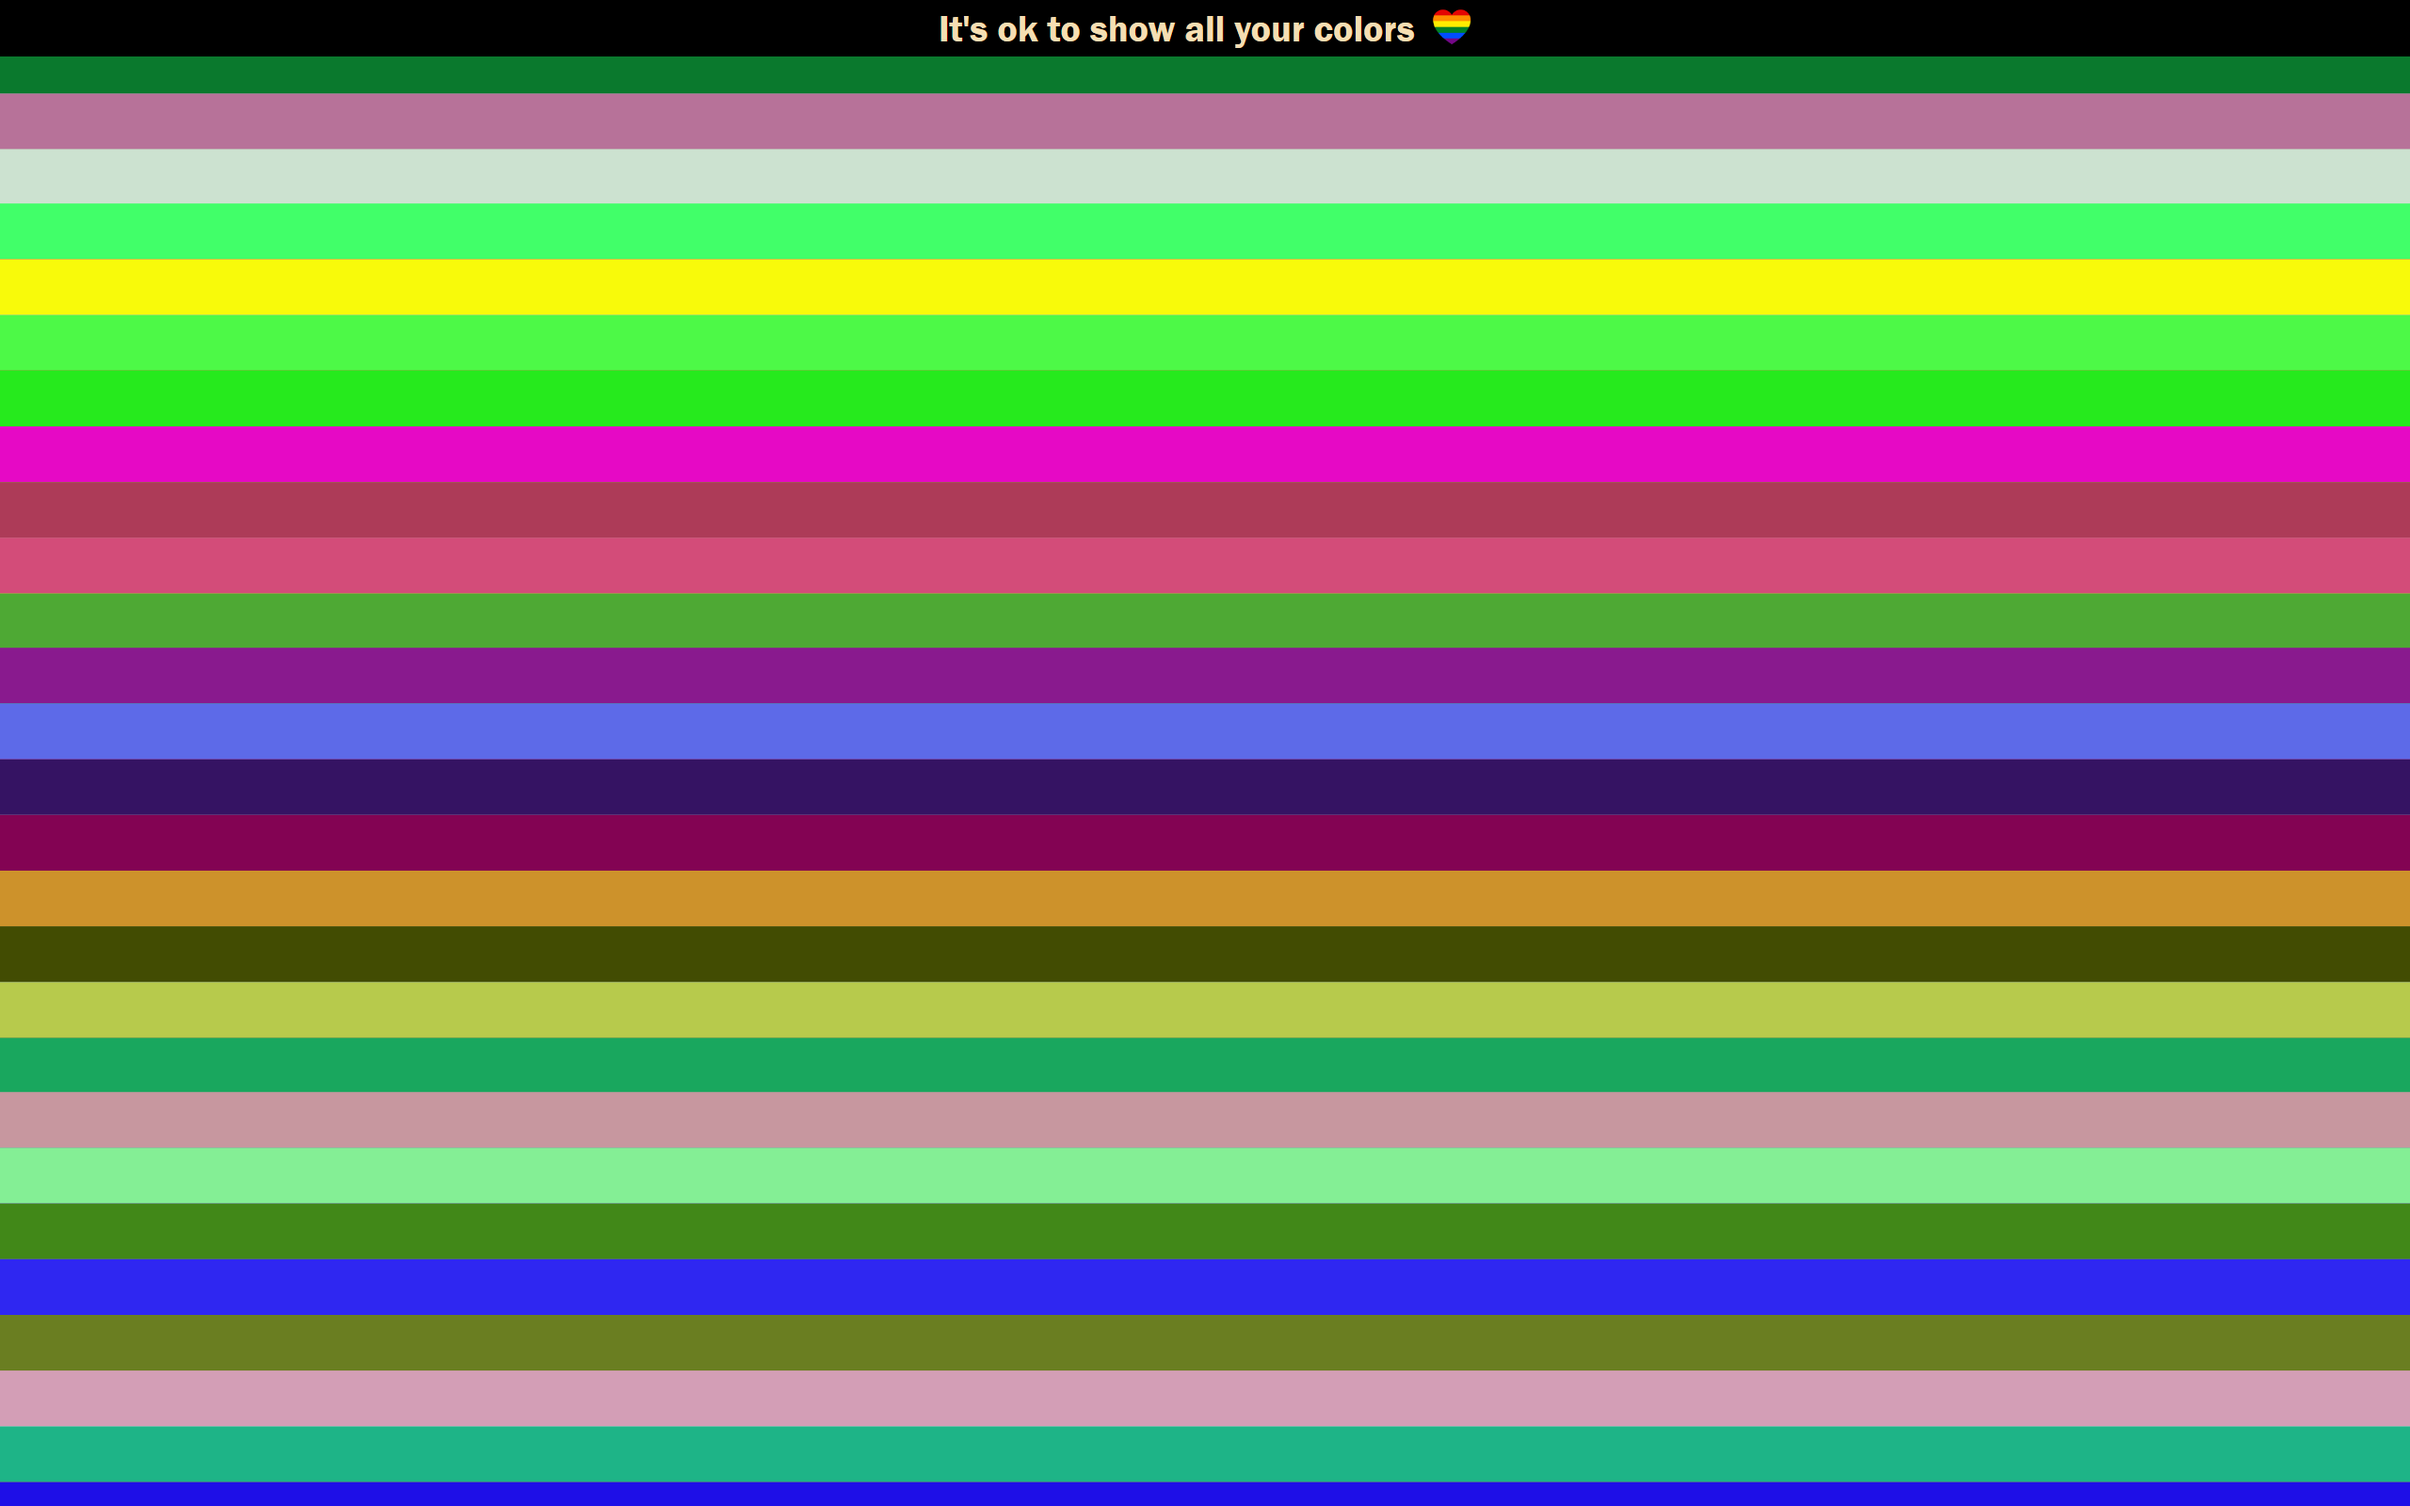
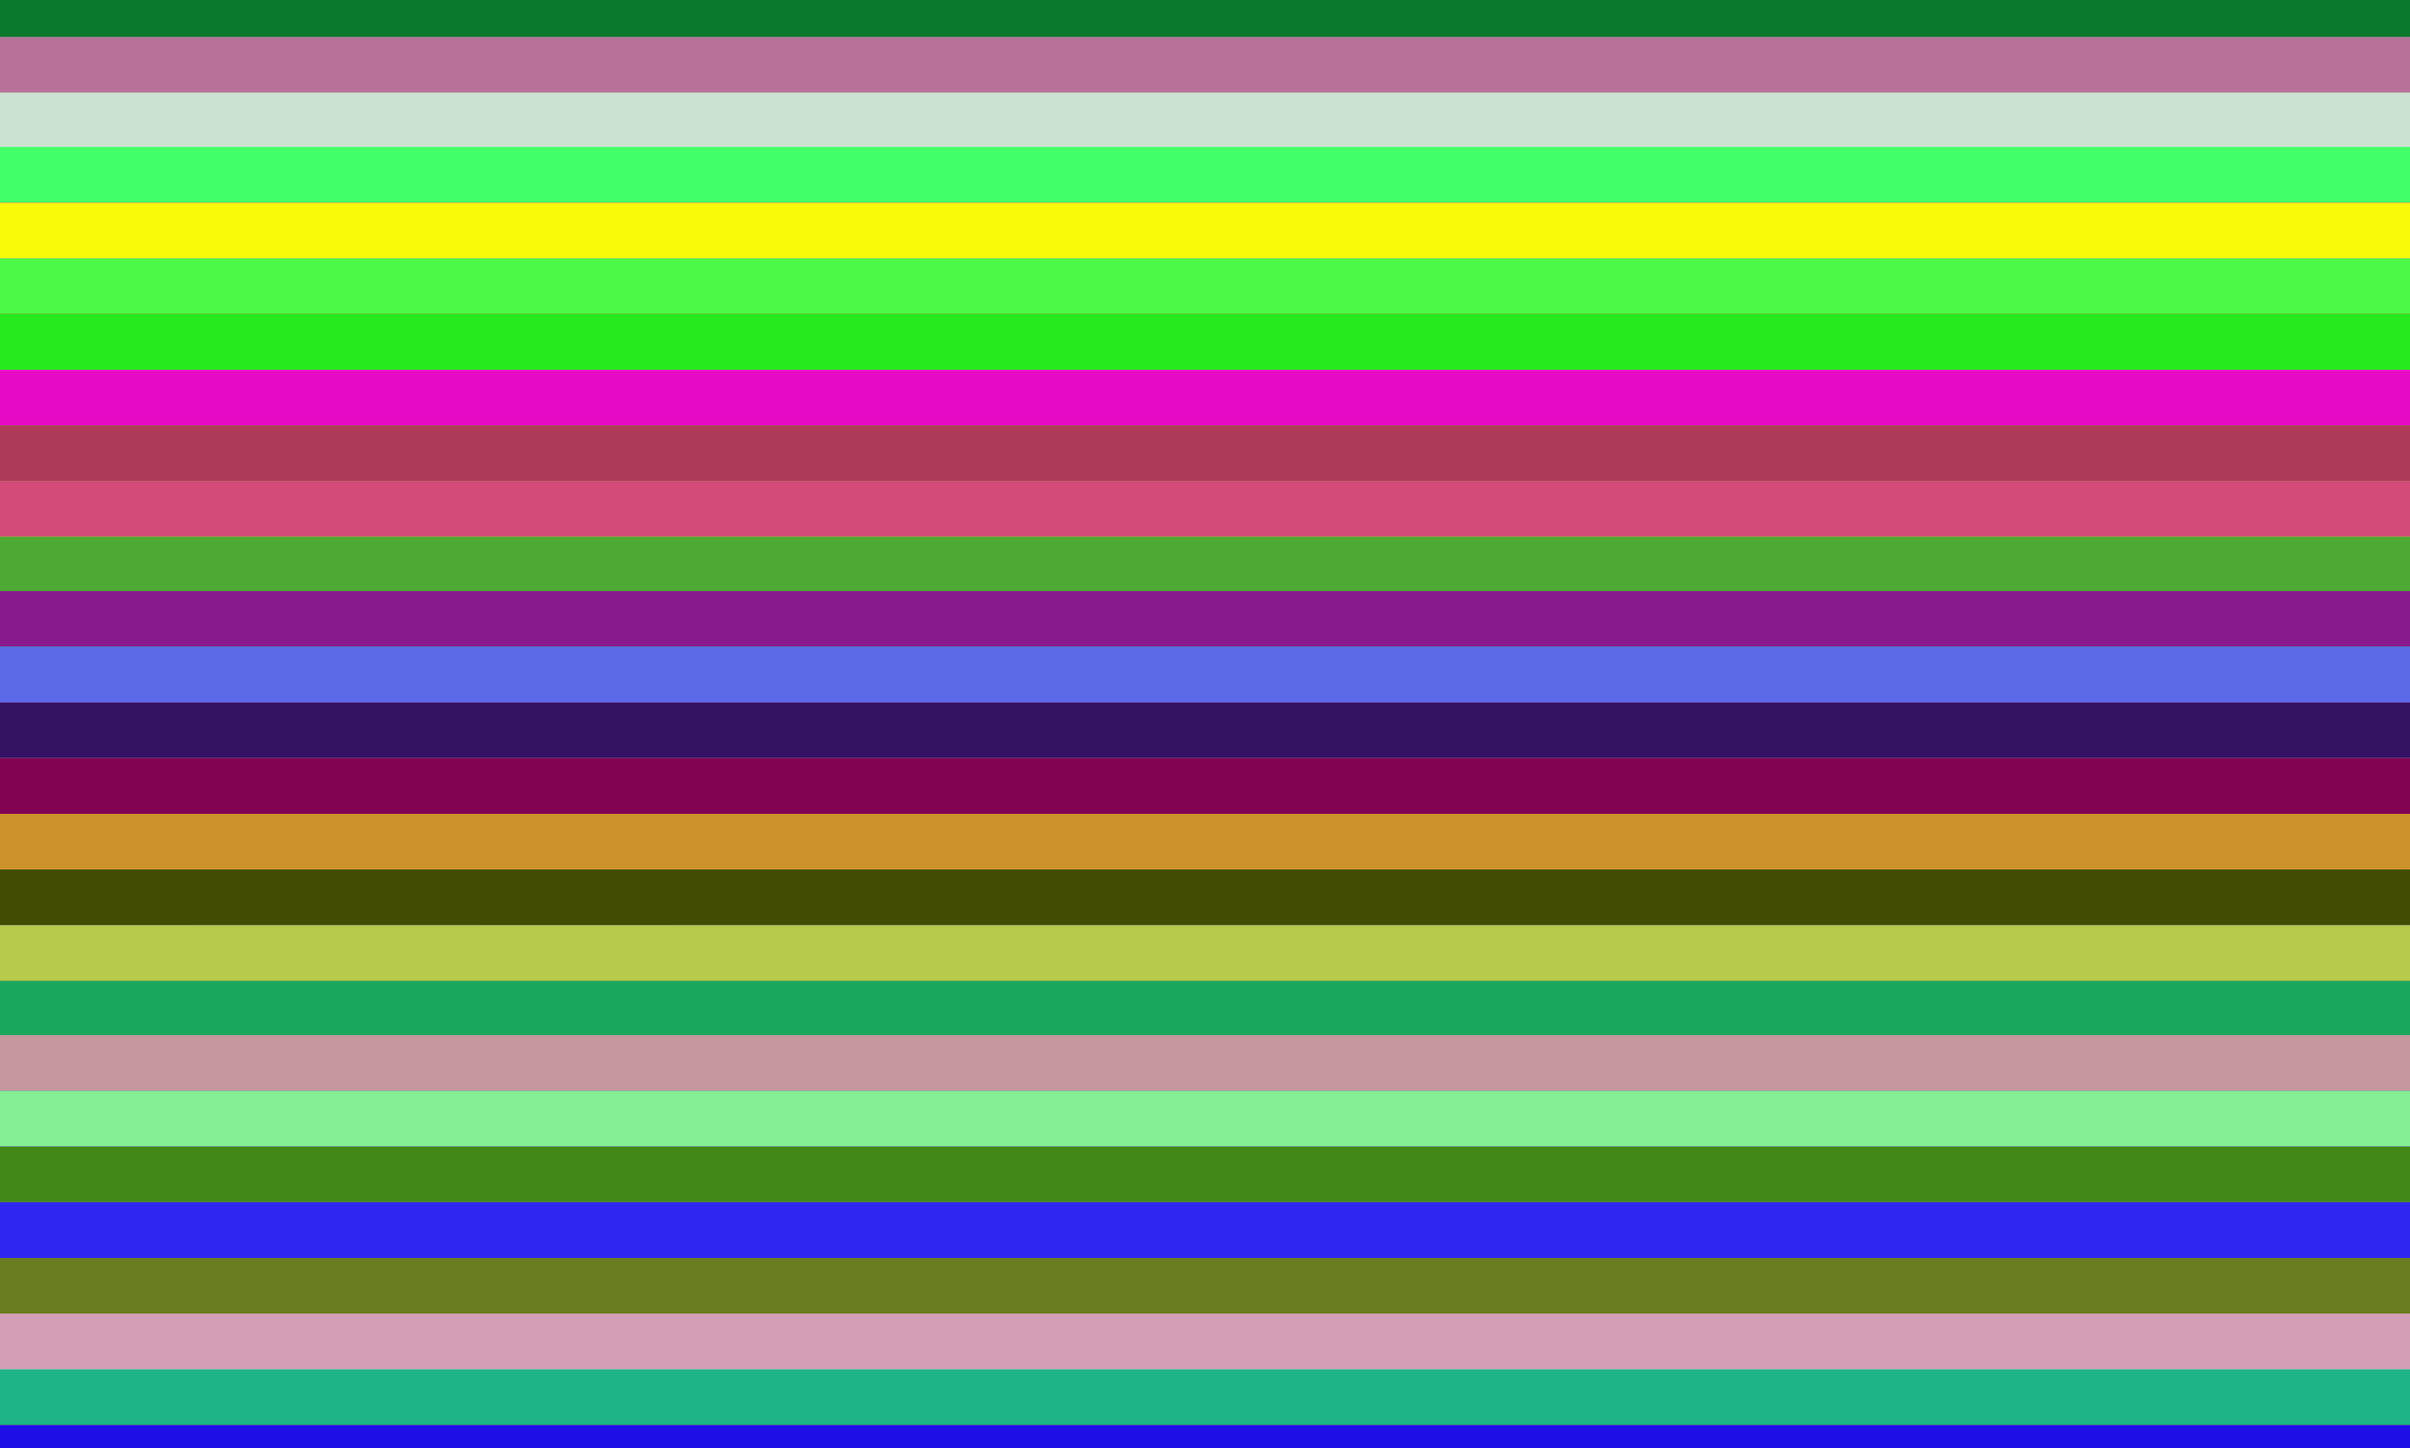
change lines structure, add color rgb by hovering

diff --git a/scss/main.scss b/scss/main.scss
@@ -6,6 +6,7 @@
 
 body {
   background-image: url(../localhost_1234.png);
+  background-size: cover;
   -ms-overflow-style: none; /* Internet Explorer 10+ */
   scrollbar-width: none; /* Firefox */
 }
@@ -18,18 +19,23 @@ html {
   scrollbar-width: none; /* Firefox */
 }
 
-hr {
-  display: block;
-  unicode-bidi: initial;
+.line {
   margin-block-start: 0;
   margin-block-end: 0;
   margin-inline-start: 0;
   margin-inline-end: 0;
-  overflow: hidden;
-  border-style: solid;
-  border-width: 0;
-  border-bottom: 10px solid black;
+  width: 100%;
+  height: 30px;
   margin: -0.5px;
+  display: flex;
+  align-items: center;
+  justify-content: center;
+  font-family: sans-serif;
+  font-weight: 900;
+
+  @media (max-width: 200px) {
+    font-size: 13px;
+  }
 }
 
 .quote {

diff --git a/script.js b/script.js
@@ -7,7 +7,8 @@ const randomRGB = function () {
 // create markup
 let markup = "";
 for (let i = 0; i <= 2000; i++) {
-  markup += `<hr style="border-bottom: 30px solid rgb(${randomRGB()},${randomRGB()},${randomRGB()})">`;
+  const randomColor = `rgb(${randomRGB()}, ${randomRGB()}, ${randomRGB()})`;
+  markup += `<div class="line" onmouseout="this.innerHTML = '', false" onmouseover="this.innerHTML = '${randomColor}'" title="Color: ${randomColor}" style="background-color: ${randomColor}"></div>`;
 }
 
 // append murkup to body function
